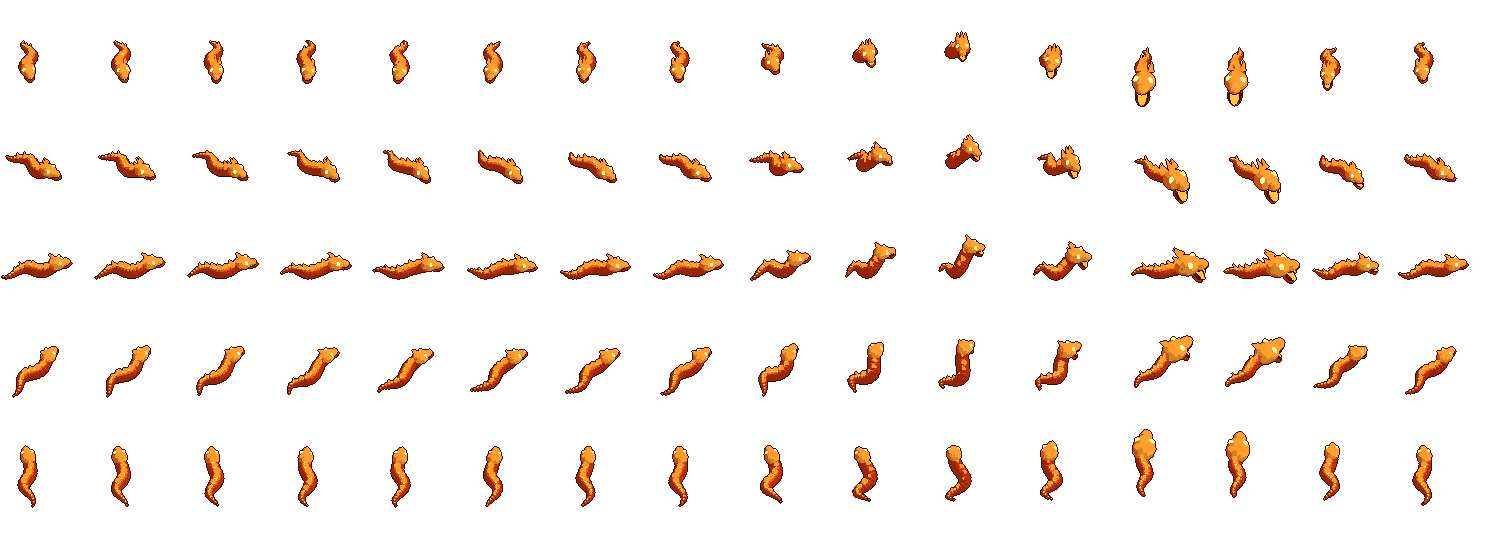
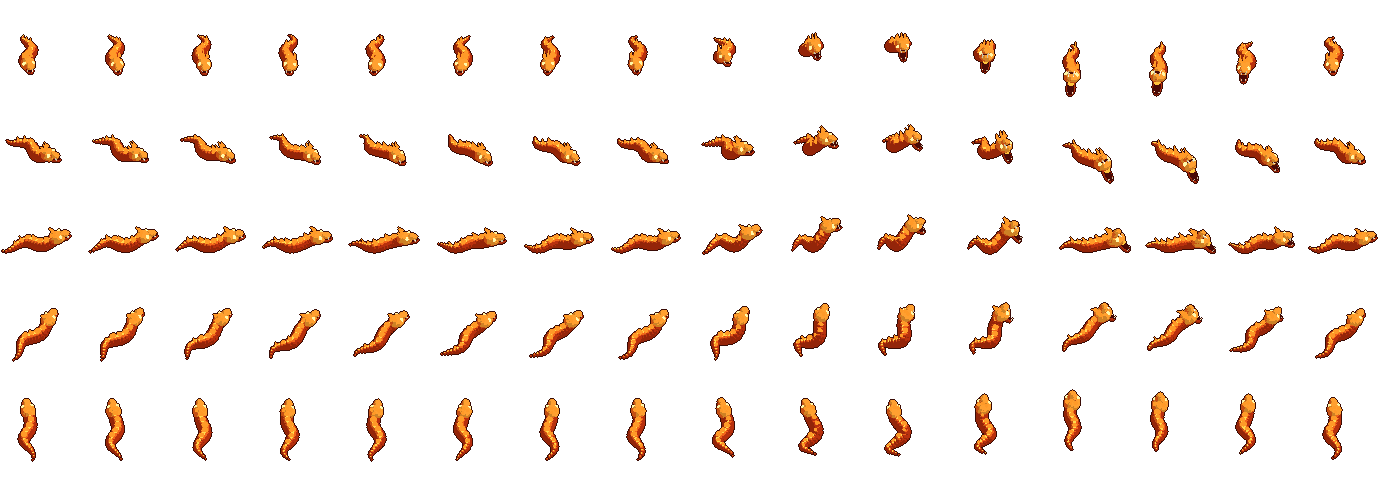
v2: Serpente com mandibulas articuladas (boca aberta legivel, bote sem pulo de escala) e Fantasma mais firme no bote
Serpente: dobradica atras da boca, mandibula de baixo desce e a de cima sobe, forro escuro entre as presas
e brasa clara so no fundo da garganta; cabeca no bote 1,6x (antes 2,2x), pescoco do quadro de armar suavizado,
quadro 87x97 (pe 27,54). Fantasma: corpo mais firme nos quadros 11 a 13, contorno quase opaco, olhos maiores.
Alcance e golpe de ambos voltam aos numeros de antes do polimento (balanco fica com o Alisson).
v2_andante: fotos das 8 direcoes no bote (impacto e o quadro seguinte) e recorte maior.

diff --git a/jogos/hordas/fonte_arte/blender_serpente/gerar_serpente.py b/jogos/hordas/fonte_arte/blender_serpente/gerar_serpente.py
@@ -110,18 +110,26 @@ def modelo():
     cab = junta("cabeca", (0, 0, 0), corpo)
     J["cabeca"] = cab
     esfera("cranio", 0.27, (0, -0.02, 0.02), mat["cabeca"], cab, escala=(1.0, 1.2, 0.82))
-    esfera("focinho", 0.17, (0, -0.3, -0.01), mat["cabeca"], cab, escala=(0.9, 1.25, 0.68))
-    mand = junta("mandibula", (0, -0.12, -0.1), cab)
+    # as mandíbulas giram na dobradiça (embaixo do crânio, atrás da boca): a de baixo desce e a de cima sobe, abrindo um vão com o forro escuro
+    # (palato e boca_p, vermelho-escuro) entre as presas; a brasa clara (garganta) só no fundo do vão e uma língua fina de brasa mais escura
+    dob = (0.0, 0.0, -0.12)
+
+    def rel(p):
+        return (p[0] - dob[0], p[1] - dob[1], p[2] - dob[2])
+
+    mand = junta("mandibula", dob, cab)
     J["mandibula"] = mand
-    esfera("mand_p", 0.17, (0, -0.3, -0.13), mat["ventre"], mand, escala=(0.95, 1.5, 0.45))
-    # o interior da boca: forro vermelho-escuro no céu da boca e na mandíbula, com a brasa clara (garganta e língua) por cima do forro da mandíbula
-    esfera("palato", 0.16, (0, -0.24, -0.09), mat["boca"], cab, escala=(0.95, 1.5, 0.3))
-    esfera("boca_p", 0.17, (0, -0.28, -0.08), mat["boca"], mand, escala=(0.95, 1.4, 0.35))
-    esfera("lingua", 0.16, (0, -0.28, -0.045), mat["garganta"], mand, escala=(0.7, 1.5, 0.3))
-    J["goela"] = esfera("goela", 0.15, (0, -0.17, -0.07), mat["garganta"], cab, escala=(0.85, 1.4, 0.9))   # a brasa no fundo da boca: lê de perfil no vão entre as mandíbulas
+    esfera("mand_p", 0.16, rel((0, -0.26, -0.19)), mat["ventre"], mand, escala=(0.95, 1.75, 0.5))
+    esfera("boca_p", 0.15, rel((0, -0.27, -0.14)), mat["boca"], mand, escala=(0.8, 1.6, 0.3))
+    esfera("lingua", 0.08, rel((0, -0.3, -0.12)), mat["ventre"], mand, escala=(0.5, 2.2, 0.25))
+    maxi = junta("maxila", dob, cab)
+    J["maxila"] = maxi
+    esfera("focinho", 0.17, rel((0, -0.3, -0.01)), mat["cabeca"], maxi, escala=(0.9, 1.25, 0.68))
+    esfera("palato", 0.15, rel((0, -0.26, -0.085)), mat["boca"], maxi, escala=(0.85, 1.6, 0.3))
+    J["goela"] = esfera("goela", 0.11, (0, -0.2, -0.13), mat["garganta"], cab, escala=(0.7, 1.1, 0.9))   # a brasa no fundo do vão: lê de perfil entre as mandíbulas
     for x in (0.08, -0.08):
-        cone("presa", 0.0, 0.045, 0.21, (x, -0.38, -0.115), mat["presa"], cab)
-        cone("presa_b", 0.0, 0.03, 0.12, (x * 0.8, -0.4, -0.06), mat["presa"], mand).rotation_euler = (math.pi, 0, 0)
+        cone("presa", 0.0, 0.05, 0.22, rel((x, -0.4, -0.12)), mat["presa"], maxi)
+        cone("presa_b", 0.0, 0.035, 0.14, rel((x * 0.9, -0.42, -0.11)), mat["presa"], mand).rotation_euler = (math.pi, 0, 0)
         esfera("olho", 0.075, (x * 2.0, -0.15, 0.13), mat["olho"], cab, escala=(1.0, 0.8, 1.2))
     for k, (x, y, h) in enumerate(((0.0, 0.1, 0.34), (0.14, 0.14, 0.26), (-0.14, 0.14, 0.26))):
         c = cone("crista%d" % k, 0.07, 0.0, h, (x, y, 0.28 + h / 2.0 - 0.05), mat["chama"], cab)
@@ -138,10 +146,10 @@ ATQ = (
     # cab_y, cau_y, alto (cabeça), pescoço (comprimento), amp (onda lateral), rip (ondulação vertical), boca, pitch (cabeça: + olha para cima), chama
     {"cab_y": -1.20, "cau_y": 1.50, "alto": 0.70, "pescoco": 1.0, "amp": 0.50, "rip": 0.10, "boca": 0.0, "pitch": 0.2, "chama": 0.9},     # 8  se enrosca
     {"cab_y": -0.85, "cau_y": 1.40, "alto": 1.10, "pescoco": 1.1, "amp": 0.60, "rip": 0.10, "boca": 0.2, "pitch": 0.0, "chama": 1.1},     # 9  ergue o pescoço
-    {"cab_y": -0.65, "cau_y": 1.30, "alto": 1.50, "pescoco": 1.2, "amp": 0.65, "rip": 0.08, "boca": 0.5, "pitch": -0.1, "chama": 1.3},    # 10 arma o bote (a cabeça de lado para a frente)
-    {"cab_y": -1.25, "cau_y": 1.00, "alto": 1.00, "pescoco": 1.0, "amp": 0.45, "rip": 0.06, "boca": 0.9, "pitch": 0.1, "chama": 1.3, "esc": 1.6},   # 11 dispara
-    {"cab_y": -2.20, "cau_y": 0.55, "alto": 0.38, "pescoco": 0.8, "amp": 0.22, "rip": 0.03, "boca": 1.0, "pitch": 0.3, "chama": 1.5, "esc": 2.2},   # 12 BOTE
-    {"cab_y": -2.10, "cau_y": 0.55, "alto": 0.32, "pescoco": 0.8, "amp": 0.20, "rip": 0.03, "boca": 1.0, "pitch": 0.3, "chama": 1.6, "esc": 2.2},   # 13 segura e estala
+    {"cab_y": -0.75, "cau_y": 1.30, "alto": 1.15, "pescoco": 1.55, "amp": 0.65, "rip": 0.08, "boca": 0.5, "pitch": -0.1, "chama": 1.3},    # 10 arma o bote (a cabeça de lado para a frente)
+    {"cab_y": -1.25, "cau_y": 1.00, "alto": 1.00, "pescoco": 1.0, "amp": 0.45, "rip": 0.06, "boca": 0.9, "pitch": 0.1, "chama": 1.3, "esc": 1.5},   # 11 dispara
+    {"cab_y": -2.20, "cau_y": 0.55, "alto": 0.38, "pescoco": 0.8, "amp": 0.22, "rip": 0.03, "boca": 1.0, "pitch": 0.35, "chama": 1.5, "esc": 1.6},   # 12 BOTE
+    {"cab_y": -2.10, "cau_y": 0.55, "alto": 0.32, "pescoco": 0.8, "amp": 0.20, "rip": 0.03, "boca": 1.0, "pitch": 0.35, "chama": 1.6, "esc": 1.6},   # 13 segura e estala
     {"cab_y": -1.75, "cau_y": 0.95, "alto": 0.50, "pescoco": 0.9, "amp": 0.34, "rip": 0.05, "boca": 0.4, "pitch": 0.0, "chama": 1.2},    # 14 recolhe
     {"cab_y": -1.50, "cau_y": 1.40, "alto": 0.45, "pescoco": 1.0, "amp": 0.32, "rip": 0.07, "boca": 0.0, "pitch": 0.15, "chama": 1.0},    # 15 assenta
 )
@@ -189,7 +197,8 @@ def pose(J, q):
     cab.scale = (e, e, e)
     g = max(0.01, p["boca"] ** 1.5)      # a brasa do fundo só aparece com a boca aberta
     J["goela"].scale = (g, g, g)
-    J["mandibula"].rotation_euler = (p["boca"] * 1.3, 0, 0)
+    J["mandibula"].rotation_euler = (p["boca"] * 1.1, 0, 0)
+    J["maxila"].rotation_euler = (-p["boca"] * 0.6, 0, 0)
     if q >= ANDAR + IMPACTO:        # o estalo: a cabeça treme
         cab.location = (topo[0] + 0.03 * math.sin(f * 4.0), topo[1], topo[2])
     return Vector(topo)

diff --git a/jogos/hordas/fonte_arte/blender_fantasma/gerar_fantasma.py b/jogos/hordas/fonte_arte/blender_fantasma/gerar_fantasma.py
@@ -112,7 +112,7 @@ def modelo():
     ponta.rotation_euler = (-0.55, 0, 0)         # a ponta do capuz cai para trás
     esfera("rosto", 0.31, (0, -0.2, OMBRO_Z + 0.42), mat["rosto"], cabeca, escala=(0.95, 0.62, 1.1))      # o vão do capuz: um buraco escuro grande, para os olhos saltarem
     for x in (0.1, -0.1):
-        esfera("olho", 0.085, (x * 1.1, -0.4, OMBRO_Z + 0.48), mat["olho"], cabeca, escala=(1.0, 0.7, 1.35))
+        esfera("olho", 0.1, (x * 1.1, -0.4, OMBRO_Z + 0.48), mat["olho"], cabeca, escala=(1.0, 0.7, 1.35))
     # boca: um oval escuro que abre no bote (a escala em Z é a abertura)
     boca = junta("boca", (0, -0.4, OMBRO_Z + 0.28), cabeca)
     J["boca"] = boca
@@ -192,12 +192,14 @@ def alcance_bote():
     return ponta / ESCALA
 
 
-def assar_transparencia(folha, H, pe_y):
+def assar_transparencia(folha, W, H, pe_y):
     """Faz o corpo meio transparente: mais firme em cima (capuz, ombros), mais ralo na barra. Olhos e contorno ficam firmes."""
     cheio = folha[:, :, 3] > 0.5
     ys = np.arange(folha.shape[0]) % H                       # a linha dentro do quadro
     sobe = np.clip((pe_y - ys) / 30.0, 0.0, 1.0)             # 0 na barra, 1 a 30 px acima do chão
-    corpo = (0.40 + 0.38 * sobe)[:, None]
+    col = (np.arange(folha.shape[1]) // W)[None, :]
+    reforco = np.where((col >= 11) & (col <= 13), 0.20, 0.0)     # no bote (quadros 11 a 13) o corpo fica mais firme: destaca do chão e leva o olho ao capuz
+    corpo = np.minimum(0.46 + 0.38 * sobe[:, None] + reforco, 0.92)
     olho = cheio & np.all(np.abs(folha[:, :, :3] - OLHO_RGB) < 0.02, axis=2)
     borda = cheio & np.all(np.abs(folha[:, :, :3] - CONT) < 1e-3, axis=2)
     garra = np.zeros_like(cheio)
@@ -205,7 +207,7 @@ def assar_transparencia(folha, H, pe_y):
         garra |= cheio & np.all(np.abs(folha[:, :, :3] - np.array(t)) < 2e-3, axis=2)
     novo = np.where(cheio, corpo, 0.0)
     novo = np.where(garra, np.maximum(novo, 0.92), novo)
-    novo = np.where(borda, np.maximum(novo, 0.75), novo)
+    novo = np.where(borda, np.maximum(novo, 0.92), novo)     # contorno verde-escuro de 1 px quase opaco: separa o fantasma do chão
     novo = np.where(olho, 1.0, novo)
     folha[:, :, 3] = novo
 
@@ -260,7 +262,7 @@ def main():
             im[:, :, :3][borda] = CONT
             folha[i * H:(i + 1) * H, j * W:(j + 1) * W] = im
     alcance = alcance_bote()
-    assar_transparencia(folha, H, pe_y)
+    assar_transparencia(folha, W, H, pe_y)
     if PREVIA:
         fundo = np.zeros_like(folha)
         fundo[:] = (0.13, 0.17, 0.12, 1.0)
